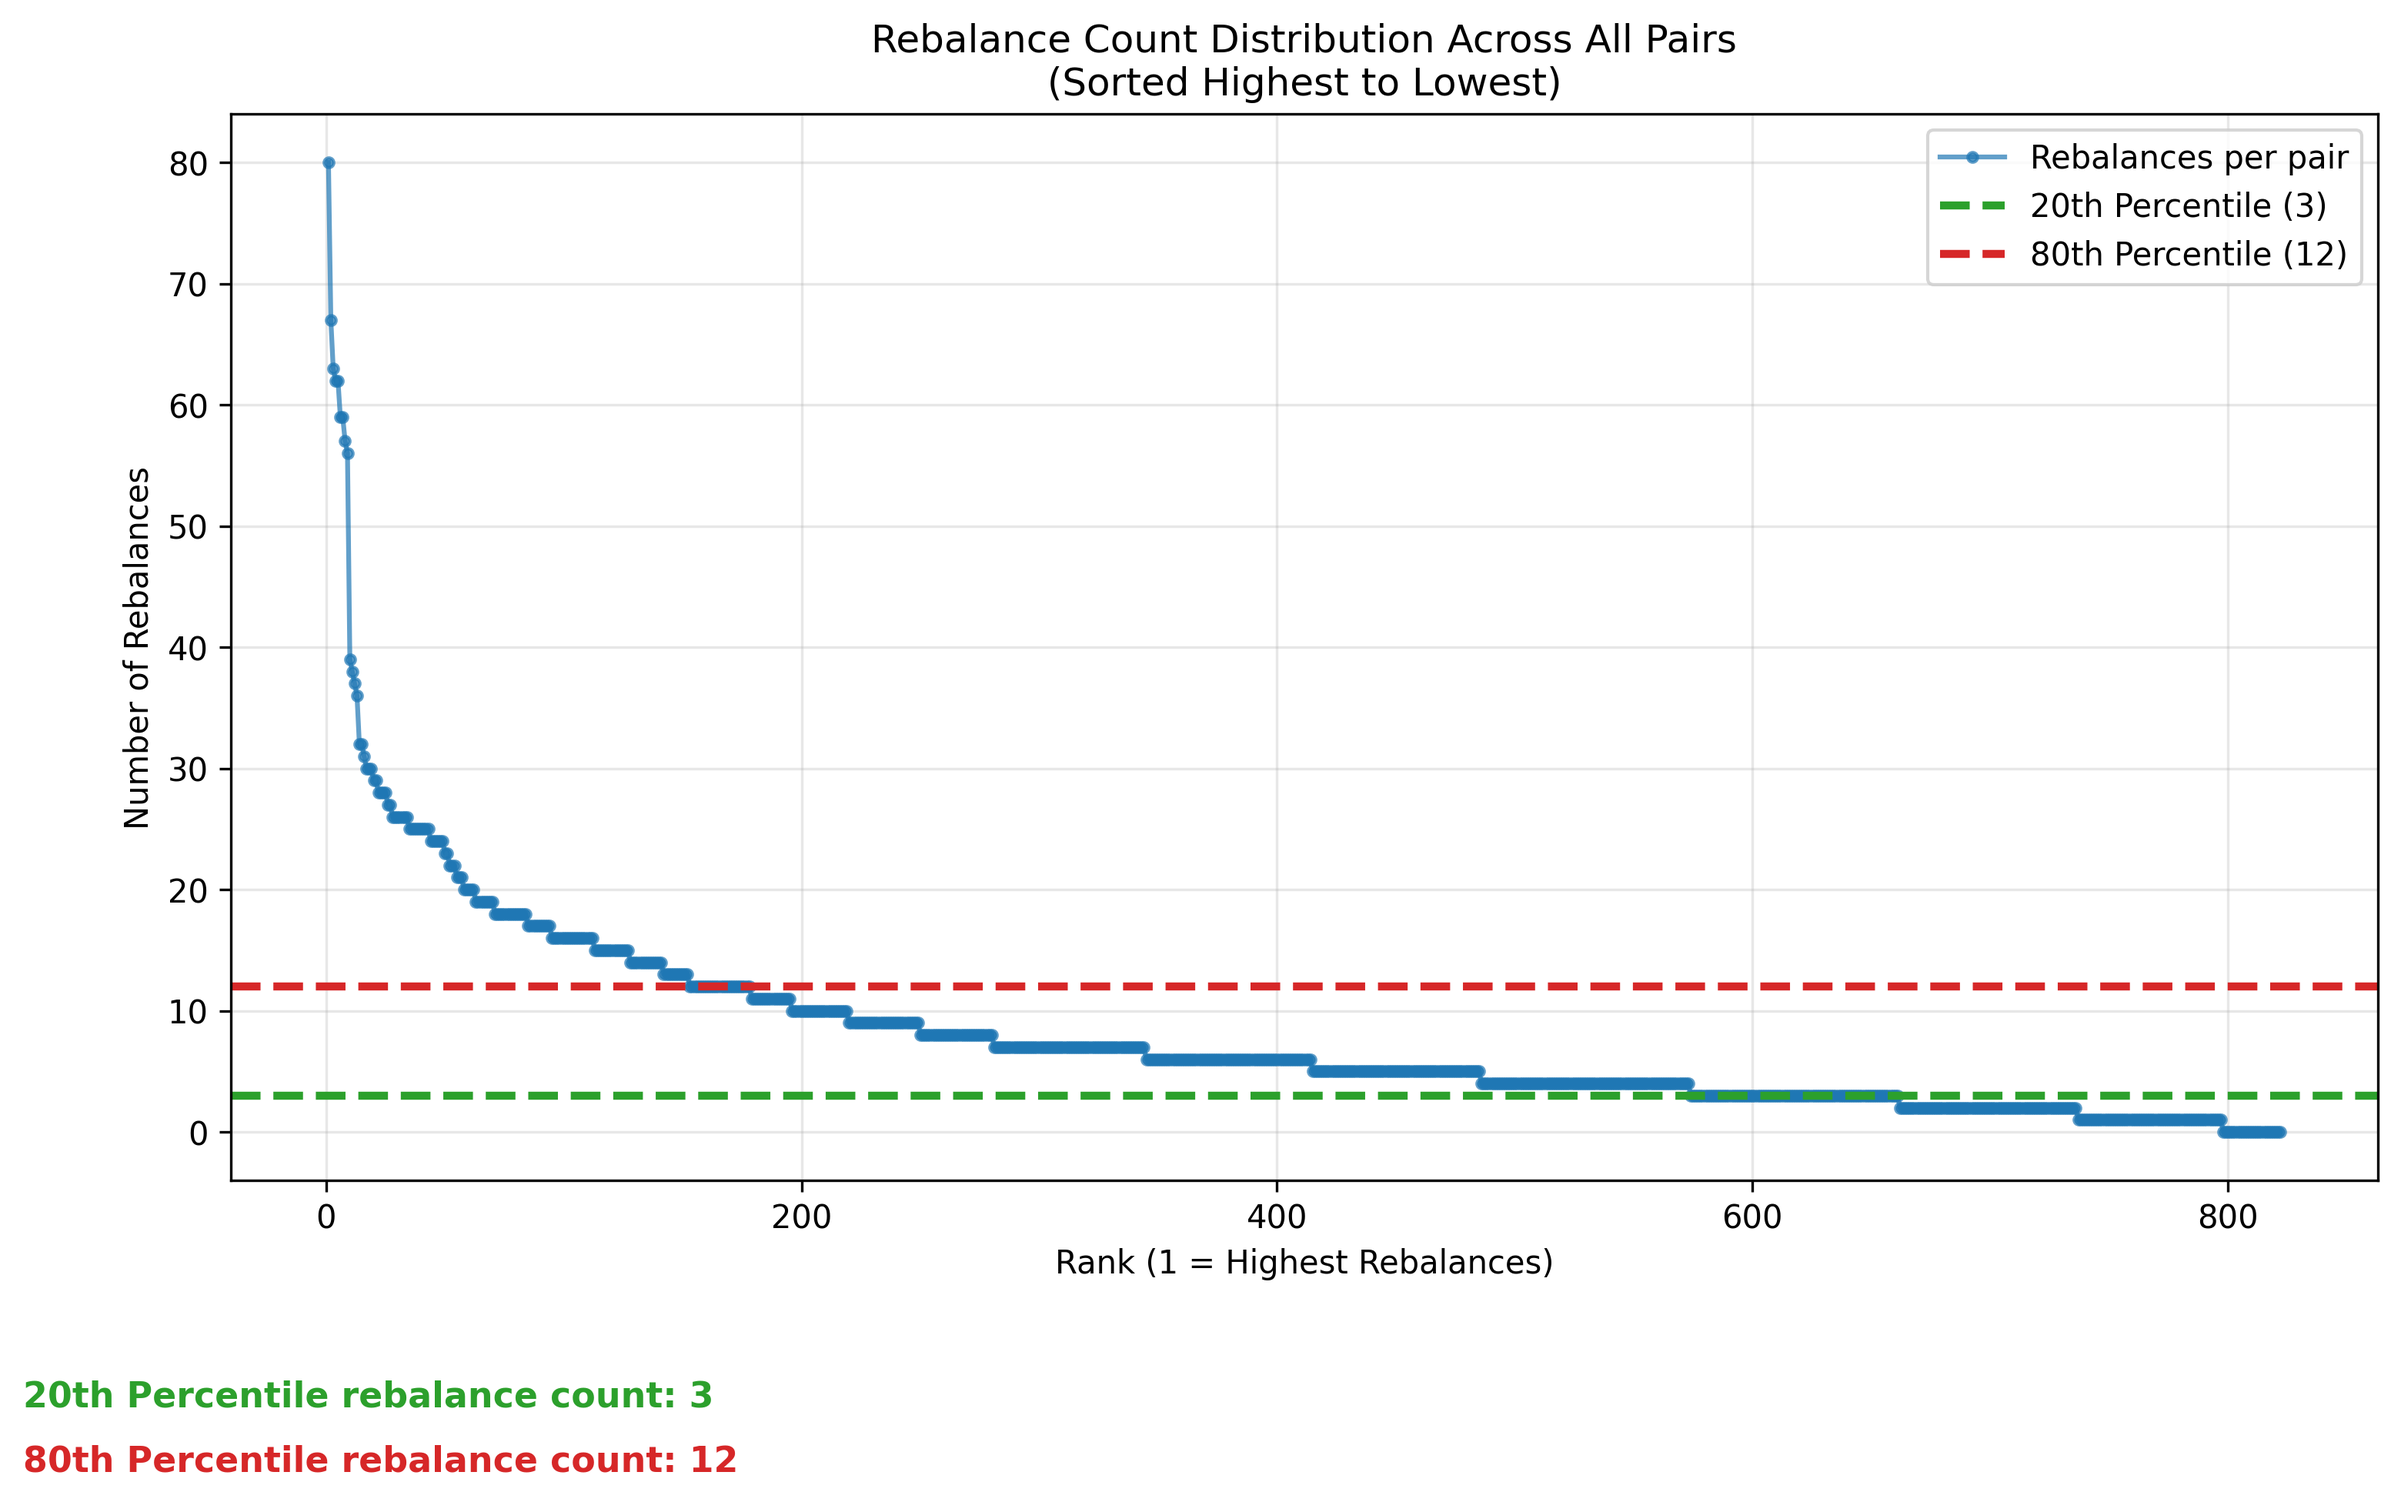
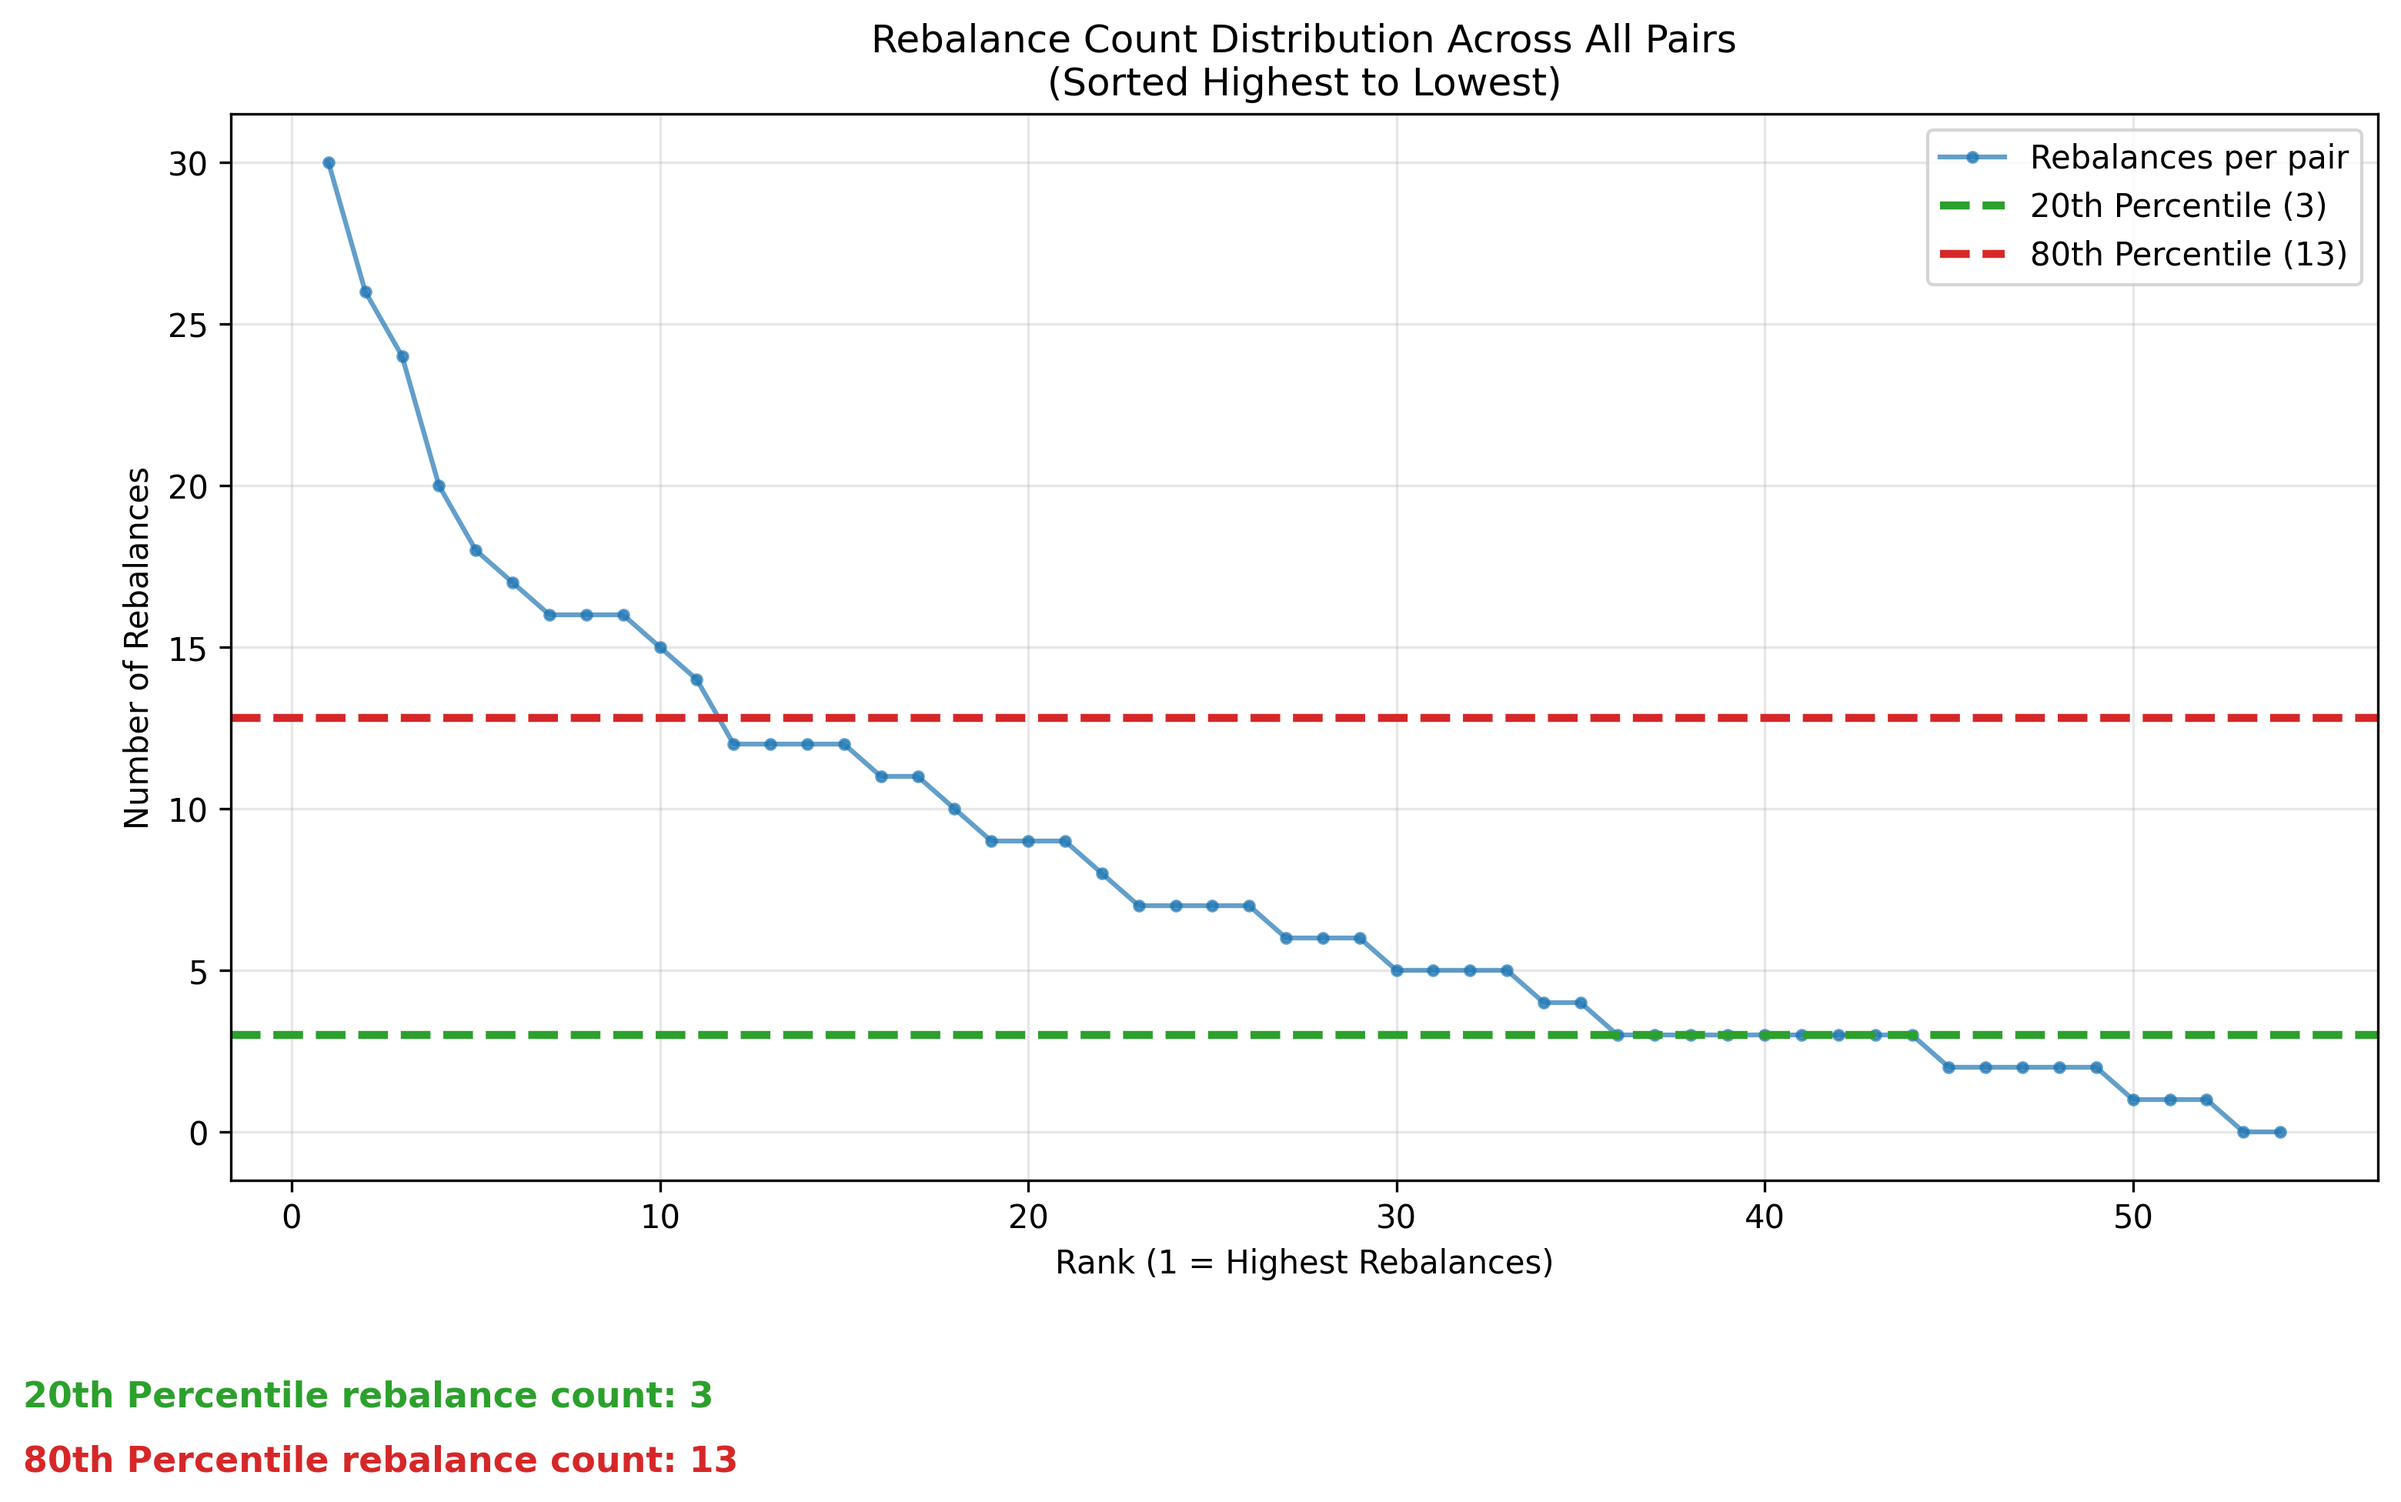
filter skewed volume

diff --git a/src/pcv2/filter_by_volume.py b/src/pcv2/filter_by_volume.py
@@ -5,15 +5,17 @@ import os
 import matplotlib.pyplot as plt
 import numpy as np
 
-# ====================== CONFIG (change this one line!) ======================
+# ====================== CONFIG (change these!) ======================
 PERCENTILE = 90          # ←←← CHANGE THIS TO WHATEVER YOU WANT
                          # Examples: 70, 80, 90, 95, 99, 99.9
-                         # The script will automatically mark this percentile
-                         # on the chart and update all titles/labels
+
+MIN_VOLUME_RATIO = 0.20  # ←←← NEW: Minimum ratio of smaller volume / larger volume
+                         # Filter out pairs where one symbol's volume < 30% of the other
+                         # Examples: 0.25, 0.30, 0.40, 0.50
 # ===========================================================================
 
 def ordinal(n: int) -> str:
-    """Proper English suffixes: 1st, 2nd, 3rd, 4th... 11th, 21st, 101st, etc."""
+    """Proper English suffixes: 1st, 2nd, 3rd, 4th..."""
     if 11 <= (n % 100) <= 13:
         suffix = 'th'
     else:
@@ -123,18 +125,31 @@ if __name__ == "__main__":
         df['symbol2_total_7d_vol_usdt'] = df['mexc_symbol2_7d_avg_vol_usdt'] + df['kucoin_symbol2_7d_avg_vol_usdt']
         df['pair_total_7d_vol_usdt'] = df['symbol1_total_7d_vol_usdt'] + df['symbol2_total_7d_vol_usdt']
     
+    # ====================== ALWAYS RUN: VOLUME BALANCE FILTER ======================
+    print(f"🔍 Applying volume balance filter ({MIN_VOLUME_RATIO*100:.0f}% min ratio)...")
+    before_balance = len(df)
+    
+    v_cols = ['symbol1_total_7d_vol_usdt', 'symbol2_total_7d_vol_usdt']
+    # Vectorized: keep only pairs where min >= ratio * max AND both volumes > 0
+    mask = (
+        (df[v_cols] > 0).all(axis=1) &
+        (df[v_cols].min(axis=1) >= MIN_VOLUME_RATIO * df[v_cols].max(axis=1))
+    )
+    
+    df = df[mask].copy().reset_index(drop=True)
+    print(f"   Kept {len(df):,} balanced pairs | Discarded {before_balance - len(df):,} imbalanced pairs")
+    # ===========================================================================
+
     # ====================== ALWAYS RUN: SORT + PERCENTILES + CHART + SAVE ======================
     print("🔄 Sorting pairs from highest total volume to lowest...")
     df = df.sort_values(by='pair_total_7d_vol_usdt', ascending=False).reset_index(drop=True)
     
     print("📊 Calculating volume percentile ranks...")
-    # Precise percentile (100.00 = highest volume pair)
     df['volume_percentile'] = (df['pair_total_7d_vol_usdt'].rank(pct=True) * 100).round(2)
     
-    # Clean label with proper st/nd/rd/th suffixes
     df['volume_percentile_rank'] = df['volume_percentile'].round(0).astype(int).map(ordinal) + " percentile"
     
-    # Move new columns right after total volume for perfect readability
+    # Move new columns right after total volume
     cols = list(df.columns)
     try:
         total_idx = cols.index('pair_total_7d_vol_usdt')
@@ -142,7 +157,7 @@ if __name__ == "__main__":
             cols.insert(total_idx + 1, cols.pop(cols.index(col)))
         df = df[cols]
     except:
-        pass  # safety net if column somehow missing
+        pass
     
     volumes = df['pair_total_7d_vol_usdt']
     percentile_fraction = PERCENTILE / 100.0
@@ -150,7 +165,7 @@ if __name__ == "__main__":
     print(f"📈 {PERCENTILE}th percentile total volume: ${p_value:,.0f} USDT")
     print(f"   Top pair is at {df['volume_percentile_rank'].iloc[0]}")
     
-    print(f"📈 Generating sorted rank chart ({PERCENTILE}th percentile, log scale)...")
+    print(f"📈 Generating sorted rank chart ({PERCENTILE}th percentile, {MIN_VOLUME_RATIO*100:.0f}% balanced, log scale)...")
     plt.figure(figsize=(14, 8), dpi=150)
     ranks = range(1, len(df) + 1)
     plot_volumes = np.maximum(volumes, 1)
@@ -160,7 +175,8 @@ if __name__ == "__main__":
     plt.yscale('log')
     
     plt.title(f'Pair Total 7-Day Volume - Sorted Highest to Lowest Rank\n'
-              f'Strong Cointegration + Non-Noise Pairs ({PERCENTILE}th Percentile Marked)', 
+              f'Strong Cointegration + Non-Noise + {MIN_VOLUME_RATIO*100:.0f}% Volume Balanced Pairs '
+              f'({PERCENTILE}th Percentile Marked)', 
               fontsize=14, pad=20)
     plt.xlabel('Pair Rank (1 = Highest Total Volume)')
     plt.ylabel('Pair Total Volume USDT (log scale)')
@@ -173,9 +189,10 @@ if __name__ == "__main__":
     
     print(f"   ✅ Chart saved → {chart_file}")
     
-    # Save (or re-save) the CSV with new columns
+    # Save (or re-save) the CSV
     df.to_csv(output_file, index=False)
     print(f"\n✅ DONE! Final file: {output_file} ({len(df):,} rows)")
+    print(f"   Filters applied: Strong Cointegration + Non-Noise + {MIN_VOLUME_RATIO*100:.0f}% Volume Balance")
     print(f"   New columns added: volume_percentile + volume_percentile_rank")
     print(f"   Chart: {chart_file}")
     if skip_fetch:

diff --git a/src/pcv2/filter_by_backtest.py b/src/pcv2/filter_by_backtest.py
@@ -15,7 +15,7 @@ warnings.filterwarnings('ignore')
 # ==========================  EASY CONFIG SECTION  ============================
 # =============================================================================
 # Edit these defaults here — no need to type flags every time!
-TOP_VOLUME_PERCENT = 3.0          # Change to 10, 20, 25, 50, 100, 0, etc.
+TOP_VOLUME_PERCENT = 2.0          # Change to 10, 20, 25, 50, 100, 0, etc.
 MAX_PAIRS_OVERRIDE = None          # Set to e.g. 50 for quick testing (None = no limit)
 TARGET_WEIGHT_A = 0.50
 FEE_RATE = 0.01
